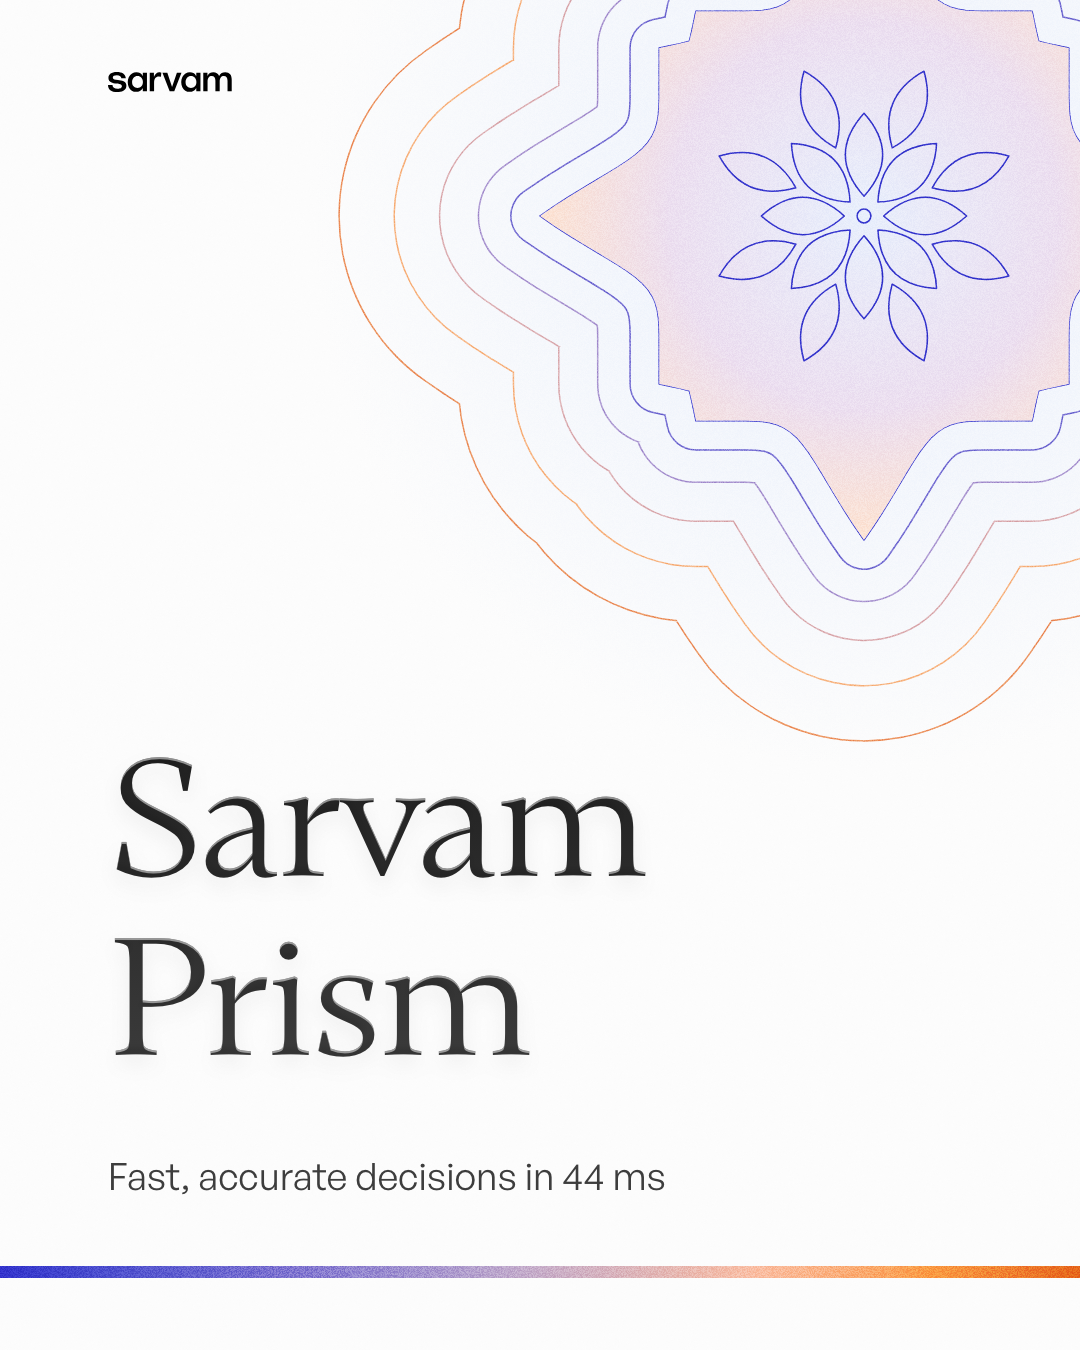
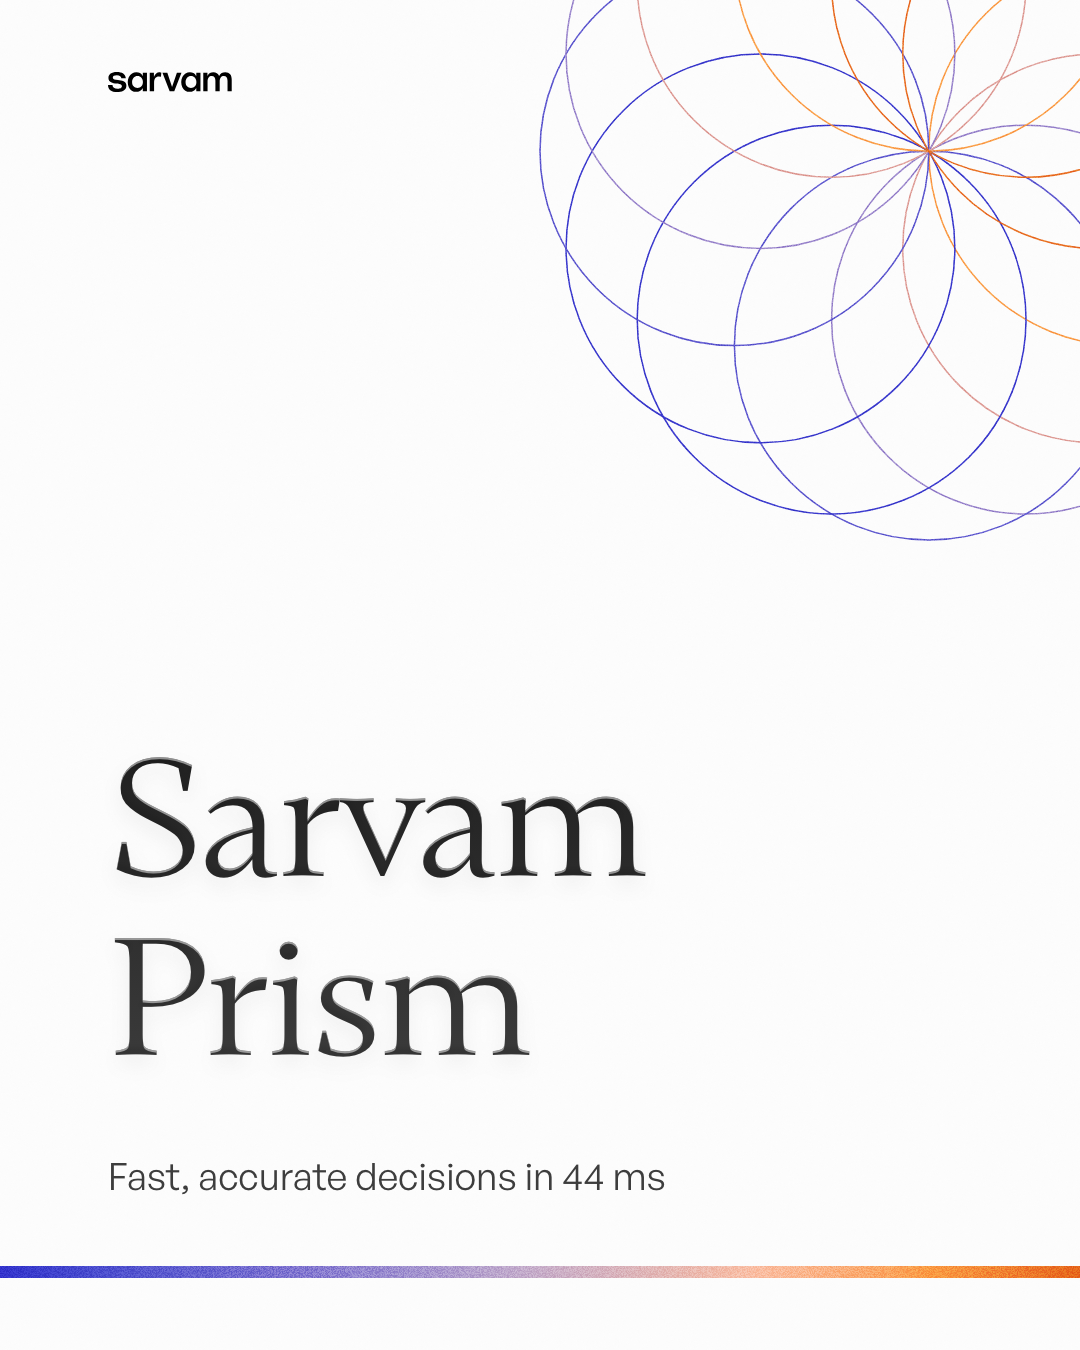
Spectrum corner: logomark-style rosette (12 equal circles, spectrum by direction)

Changed region(s): [[0.4889, 0.0, 1.0, 0.4044], [0.9778, 0.3422, 1.0, 0.3733]]

diff --git a/src/components/sarvam/composer.tsx b/src/components/sarvam/composer.tsx
@@ -31,6 +31,7 @@ export type BannerSpec = {
   logo?: "wordmark" | "logomark";  // logomark = the official lotus symbol, used alone (logo.md: never beside the wordmark)
   card?: "plan" | "research" | "review";   // product moment shown inside the device (split / stacked only); arch-window shows it through the arch
   icon?: EmblemIcon;               // emblem device: the one object that stands for the subject
+  rosette?: "circles" | "lobes";   // spectrum device: the corner rosette (circles = the logomark's own construction)
 };
 /** Emblem icons: Nucleo Core outline only (components.md §3). One object per idea. */
 export const EMBLEM_ICONS = {
@@ -46,7 +47,7 @@ export const TREATMENTS: Treatment[] = ["white", "gold", "indigo", "ink"];
 export const DARK_BG = new Set<Background>(["saffron-rose", "dusk", "indigo-glow", "night", "olive"]);
 /** Shapes curated for holding text (generator params; proportions are set per format, never stretched). */
 export const TEXT_SHAPES = ["Onion lantern", "Cusped window", "Quatrefoil", "Scalloped medallion", "Ogee cross"] as const;
-export const shapesFor = (d: Device) => (d === "spectrum" ? ["Ogee cross", "Scalloped medallion", "Eight-point star", "Quatrefoil"] : d === "medallion-glow" || d === "medallion-carved" || d === "emblem" ? [...TEXT_SHAPES] : d.startsWith("gateway") ? Object.keys(GATEWAY_PRESETS) : d === "arch-window" ? ARCH_SHAPES : []);
+export const shapesFor = (d: Device) => (d === "medallion-glow" || d === "medallion-carved" || d === "emblem" ? [...TEXT_SHAPES] : d.startsWith("gateway") ? Object.keys(GATEWAY_PRESETS) : d === "arch-window" ? ARCH_SHAPES : []);
 export const ARCH_SHAPES = ["Mihrab", "Domed door"];
 /** Devices that hold no text: the layout puts text beside them (split on landscape, stacked on portrait). */
 const BESIDE = new Set<Device>(["emblem", "arch-window"]);
@@ -322,35 +323,30 @@ function spectrumAt(t: number) {
   return "#" + h(a).map((v, j) => Math.round(v + (h(b)[j] - v) * u).toString(16).padStart(2, "0")).join("");
 }
 /** Spectrum line: one thin, hard-edged strip of the brand spectrum across a calm canvas, like light through a prism.
- *  The top-right corner holds a line medallion (nested true-offset outlines around a lotus line-motif), cropped by
- *  the corner and drawn in the same spectrum, so the art and the strip are one system. */
-function spectrumDevice(spec: BannerSpec, F: Frame, id: string, land: boolean): DeviceOut {
-  const k = (s: string) => `${s}-${id}`;
+ *  The top-right corner holds a rosette built the way Sarvam's logomark is built: ONE element repeated around a centre
+ *  (identical shape, identical 1.5px line, even rotation), each copy one hue of the spectrum, cropped by the corner. */
+function spectrumDevice(spec: BannerSpec, F: Frame, _id: string, land: boolean): DeviceOut {
   const h = land ? 8 : 12, y = F.H - F.M - h;
-  // Medallion: centred near the top-right corner, sized so the rings reach about half way across the frame.
-  const g = tight(medallionPath({ ...MEDALLION_PRESETS[spec.shape && spec.shape in MEDALLION_PRESETS ? spec.shape : "Ogee cross"], aspect: 1, frame: 0 }));
-  const R = land ? F.H * 0.3 : F.W * 0.3;
-  const cx = F.W - (land ? F.H * 0.22 : F.W * 0.2), cy = land ? F.H * 0.2 : F.W * 0.2;
-  const s = (R * 2) / Math.max(g.width, g.height);
-  const d = fitPath(g, s, cx - (g.width * s) / 2, cy - (g.height * s) / 2);
-  const rings = land ? [0, 0.09, 0.19, 0.31, 0.45] : [0, 0.09, 0.19, 0.31, 0.45, 0.62];   // landscape: one ring fewer, clear of the headline
-  const motif = motifPaths(MOTIF_PRESETS["Lotus"]).join("");
-  const mS = (R * 1.1) / 100;                                  // the motif spans ~55% of the medallion
+  const kind = spec.rosette ?? "circles";
+  const R = land ? F.H * 0.38 : F.W * 0.36;                     // rosette radius (the whole rosette spans 2R)
+  const cx = F.W - (land ? F.H * 0.16 : F.W * 0.14), cy = land ? F.H * 0.16 : F.W * 0.14;
+  const n = 12;
+  const els = Array.from({ length: n }, (_, i) => {
+    // hue by direction, mirror-symmetric: copies facing into the canvas (lower-left) are indigo, copies facing the corner (upper-right) orange
+    const a = (360 / n) * i, c = spectrumAt((1 - Math.cos(((a - 135) * Math.PI) / 180)) / 2);
+    if (kind === "circles") {
+      // the logomark's construction: equal circles whose centres sit on a ring, each passing through the centre
+      const r = R / 2, rad = (a * Math.PI) / 180;
+      return <circle key={i} cx={cx + Math.cos(rad) * r} cy={cy + Math.sin(rad) * r} r={r} stroke={c} />;
+    }
+    // lobes: equal rounded squares set out on a ring and turned to face the centre (the logomark's petals)
+    const sd = R * 0.62, rad = (a * Math.PI) / 180, px = cx + Math.cos(rad) * R * 0.5, py = cy + Math.sin(rad) * R * 0.5;
+    return <rect key={i} x={px - sd / 2} y={py - sd / 2} width={sd} height={sd} rx={sd * 0.3} transform={`rotate(${a + 45} ${px} ${py})`} stroke={c} />;
+  });
   const layer = (
     <>
       <svg width={F.W} height={F.H} style={{ position: "absolute", inset: 0 }} aria-hidden>
-        <defs>
-          <radialGradient id={k("core")} gradientUnits="userSpaceOnUse" cx={cx} cy={cy} r={R}><stop offset="0" stopColor="#e8effc" /><stop offset="0.6" stopColor="#ecdff0" /><stop offset="1" stopColor="#fde3d2" /></radialGradient>
-          <radialGradient id={k("wash")} gradientUnits="userSpaceOnUse" cx={cx} cy={cy} r={R * 1.7}><stop offset="0" stopColor="#e8effc" stopOpacity="0.9" /><stop offset="1" stopColor="#e8effc" stopOpacity="0" /></radialGradient>
-        </defs>
-        {/* a faint periwinkle wash so the corner has depth without a blur on any line */}
-        <circle cx={cx} cy={cy} r={R * 1.7} fill={`url(#${k("wash")})`} />
-        {/* the core: a soft spectrum tint inside the medallion (periwinkle centre → peach edge), crisp-edged */}
-        <path d={d} fill={`url(#${k("core")})`} />
-        {/* dispersion: each ring one solid hue, stepping through the spectrum from the centre out (light through a prism) */}
-        {rings.map((o, i) => <OffsetLine key={o} id={k(`r${i}`)} d={d} off={R * o} lw={1.5} color={spectrumAt(i / (rings.length - 1))} opacity={1 - i * 0.06} />)}
-        <g transform={`translate(${cx} ${cy}) scale(${mS})`} fill="none" stroke="#3333cc" strokeWidth={1.5 / mS} strokeLinejoin="round"
-          style={{ transformBox: "view-box" }} dangerouslySetInnerHTML={{ __html: motif }} />
+        <g fill="none" strokeWidth={1.5} strokeLinejoin="round">{els}</g>
       </svg>
       <div aria-hidden style={{ position: "absolute", left: 0, right: 0, top: y, height: h, background: SPECTRUM }} />
     </>

diff --git a/src/app/banners/make/Maker.tsx b/src/app/banners/make/Maker.tsx
@@ -46,6 +46,7 @@ export default function Maker() {
         <Seg name="Layout" value={spec.layout ?? "centered"} options={["centered", "split", "stacked"] as const} onChange={(v) => set({ layout: v })} />
         <label className="mk-field"><span>Partner (lockup next to the wordmark, optional)</span>
           <input value={spec.partner ?? ""} placeholder="e.g. Supernova" onChange={(e) => set({ partner: e.target.value || undefined })} /></label>
+        {spec.device === "spectrum" && <Seg name="Corner rosette" value={spec.rosette ?? "circles"} options={["circles", "lobes"] as const} onChange={(v) => set({ rosette: v })} />}
         {spec.device === "emblem" && <Seg name="Emblem object" value={spec.icon ?? "sparkle"} options={Object.keys(EMBLEM_ICONS) as EmblemIcon[]} onChange={(v) => set({ icon: v })} />}
         {((spec.layout ?? "centered") !== "centered" || spec.device === "arch-window") && <Seg name={spec.device === "arch-window" ? "Product through the arch" : "Product card inside the device"} value={spec.card ?? "none"} options={["none", "plan", "research", "review"] as const} onChange={(v) => set({ card: v === "none" ? undefined : v })} />}
         <Seg name="Headline style" value={spec.titleStyle} options={["serif", "sans"] as const} onChange={(v) => set({ titleStyle: v })} />

diff --git a/design-system/design.md b/design-system/design.md
@@ -1989,7 +1989,7 @@ Every Sarvam banner is a **composition of a few choices + at most two lines of t
    | `gateway-window` | 3 carved layers opening onto warm cream light | Funding, big announcements |
    | `gateway-echo` | 5 thin outline gateways rising from the bottom | Announcements |
       | `gloss` | Mirrored cluster of glossy studio shapes | Events, programs, community |
-   | `spectrum` | **Our taste** `[addition]`: a calm off-white canvas, one thin hard-edged strip of the brand spectrum (indigo → orange) near the bottom, and a **line medallion** in the top-right corner, cropped by the corner: nested true-offset outlines, **each ring one solid hue stepping through the spectrum from indigo (inside) to orange (outside)**, like light dispersing through a prism. A soft spectrum tint fills the core (periwinkle centre → peach edge, crisp-edged), with an indigo lotus line-motif at the centre. Text is set left and low (`editorial` layout). `shape`: Ogee cross (default), Scalloped medallion, Eight-point star, Quatrefoil | Model launches and announcements that should feel calm and precise |
+   | `spectrum` | **Our taste** `[addition]`: a calm off-white canvas, one thin hard-edged strip of the brand spectrum (indigo → orange) near the bottom, and a **rosette** in the top-right corner, cropped by the corner. It is built the way Sarvam's logomark is built: **one element repeated around a centre** (12 equal circles whose centres sit on a ring and which all pass through the centre; or `rosette: "lobes"`, 12 equal rounded petals). Every copy is the same 1.5px line, and each one takes a hue of the spectrum by its direction: indigo toward the canvas, orange toward the corner. Text is set left and low (`editorial` layout). | Model launches and announcements that should feel calm and precise |
    | `emblem` | One frosted, bevelled medallion with **one Nucleo icon engraved** in it, echo rings on true offsets. Text sits beside it (split on LinkedIn, stacked on Meta). `icon`: shield, plug, check, calendar, search, globe, inbox, megaphone, target, chart, book, sparkle, person | A capability you can name as an object |
    | `arch-window` | The gateway as a **window onto the real product**: a recessed arch (Mihrab / Domed door) standing on the bottom edge, light inside, one frozen product mock (`card`) seen through it. Text beside it | A product moment you can see |
    | `script-mandala` | **"Sarvam" in nine Indian scripts**, set in rings around a glowing disc. Meta: the headline sits in the disc. LinkedIn: the logomark sits in the disc and the text sits left (the wordmark is dropped; never both) `[addition]` | India, languages, mission, sovereignty, people |
@@ -2085,6 +2085,8 @@ The assignment asks for some personal flair. Ours lives in **composition and cra
 3. **Engraved emblems.** Product capabilities become crafted objects (frosted body, bevel, inset groove, engraved Nucleo line icon, echo rings on true offsets). The same material is used in the web components, so banners and page match.
 4. **The gateway as a window onto the product.** Sarvam uses the arch as a mask for photography; we use it to frame the real Indus Cowork UI.
 5. **Precision.** True-offset rings, measured text boxes, fixed type steps, sibling consistency. Nothing is stretched, and nothing is placed by eye.
+
+**Pattern rule (learned the hard way):** build ornaments from **one identical element repeated by rotation**, as the logomark is. Don't use offsets of a complex shape: their corners round differently ring by ring, and the set looks inconsistent.
 
 
 ---

diff --git a/design-system/recipes/banner-builder.md b/design-system/recipes/banner-builder.md
@@ -65,7 +65,7 @@ Every Sarvam banner is a **composition of a few choices + at most two lines of t
    | `gateway-window` | 3 carved layers opening onto warm cream light | Funding, big announcements |
    | `gateway-echo` | 5 thin outline gateways rising from the bottom | Announcements |
       | `gloss` | Mirrored cluster of glossy studio shapes | Events, programs, community |
-   | `spectrum` | **Our taste** `[addition]`: a calm off-white canvas, one thin hard-edged strip of the brand spectrum (indigo → orange) near the bottom, and a **line medallion** in the top-right corner, cropped by the corner: nested true-offset outlines, **each ring one solid hue stepping through the spectrum from indigo (inside) to orange (outside)**, like light dispersing through a prism. A soft spectrum tint fills the core (periwinkle centre → peach edge, crisp-edged), with an indigo lotus line-motif at the centre. Text is set left and low (`editorial` layout). `shape`: Ogee cross (default), Scalloped medallion, Eight-point star, Quatrefoil | Model launches and announcements that should feel calm and precise |
+   | `spectrum` | **Our taste** `[addition]`: a calm off-white canvas, one thin hard-edged strip of the brand spectrum (indigo → orange) near the bottom, and a **rosette** in the top-right corner, cropped by the corner. It is built the way Sarvam's logomark is built: **one element repeated around a centre** (12 equal circles whose centres sit on a ring and which all pass through the centre; or `rosette: "lobes"`, 12 equal rounded petals). Every copy is the same 1.5px line, and each one takes a hue of the spectrum by its direction: indigo toward the canvas, orange toward the corner. Text is set left and low (`editorial` layout). | Model launches and announcements that should feel calm and precise |
    | `emblem` | One frosted, bevelled medallion with **one Nucleo icon engraved** in it, echo rings on true offsets. Text sits beside it (split on LinkedIn, stacked on Meta). `icon`: shield, plug, check, calendar, search, globe, inbox, megaphone, target, chart, book, sparkle, person | A capability you can name as an object |
    | `arch-window` | The gateway as a **window onto the real product**: a recessed arch (Mihrab / Domed door) standing on the bottom edge, light inside, one frozen product mock (`card`) seen through it. Text beside it | A product moment you can see |
    | `script-mandala` | **"Sarvam" in nine Indian scripts**, set in rings around a glowing disc. Meta: the headline sits in the disc. LinkedIn: the logomark sits in the disc and the text sits left (the wordmark is dropped; never both) `[addition]` | India, languages, mission, sovereignty, people |
@@ -161,3 +161,5 @@ The assignment asks for some personal flair. Ours lives in **composition and cra
 3. **Engraved emblems.** Product capabilities become crafted objects (frosted body, bevel, inset groove, engraved Nucleo line icon, echo rings on true offsets). The same material is used in the web components, so banners and page match.
 4. **The gateway as a window onto the product.** Sarvam uses the arch as a mask for photography; we use it to frame the real Indus Cowork UI.
 5. **Precision.** True-offset rings, measured text boxes, fixed type steps, sibling consistency. Nothing is stretched, and nothing is placed by eye.
+
+**Pattern rule (learned the hard way):** build ornaments from **one identical element repeated by rotation**, as the logomark is. Don't use offsets of a complex shape: their corners round differently ring by ring, and the set looks inconsistent.

diff --git a/process/prompt-log.md b/process/prompt-log.md
@@ -389,3 +389,18 @@ Entry format:
 - Change: each ring is now one solid hue, stepping through the spectrum from indigo (inner) to orange (outer), at near-full opacity (`spectrumAt(t)`). The rings read as light dispersing through a prism, and they match the strip below.
 - Added a crisp spectrum tint inside the core (periwinkle centre → peach edge), and the lotus motif is now in solid indigo.
 - Before / after: `process/screens/banners-simple/spectrum-gradient-before-after.png` (left: before, middle: rings only, right: rings + tinted core ✅). QA PASS, re-exported.
+
+## 2026-11-04 — Spectrum corner rebuilt as a logomark-style rosette
+- Prompt (verbatim): "but still it is not there. The patterns are also not consistent. They look so odd and awkward. Try to make it more proper. Match the Sarvam design sense and all that. Make it proper. It is not looking good."
+- Diagnosis:
+  - The rings were true offsets of the Ogee cross. Each offset rounds the corners more, so the rings drift from sharp (inside) to blobby (outside): inconsistent.
+  - The lotus motif (8 petals) had no relation to the 4-fold cross.
+  - The ring spacing grew unevenly.
+- Looked again at Sarvam's own geometry: the logomark is ONE element (a lobe / circle) repeated around a centre, and the Global Fintech Fest art is flat identical petals.
+- Rebuild: 12 equal circles, centres on a ring, all passing through the centre — the logomark's own construction. Every line is the same 1.5px. Each circle takes one spectrum hue by its direction (mirror-symmetric: indigo toward the canvas, orange toward the corner), so there's no colour seam.
+- Tried three constructions (`process/screens/banners-simple/spectrum-rosette-options.png`):
+  - circles ✅
+  - rounded squares sharing a centre: rejected, it reads as a spiral
+  - petals on a ring: kept as the `rosette: "lobes"` option
+- Fix after looking: on LinkedIn the rosette came close to "Prism" → R 0.38·H, pushed further into the corner. QA PASS, re-exported.
+- Rule added to banner-builder.md §6: ornaments are one identical element repeated by rotation, never offsets of a complex shape.
